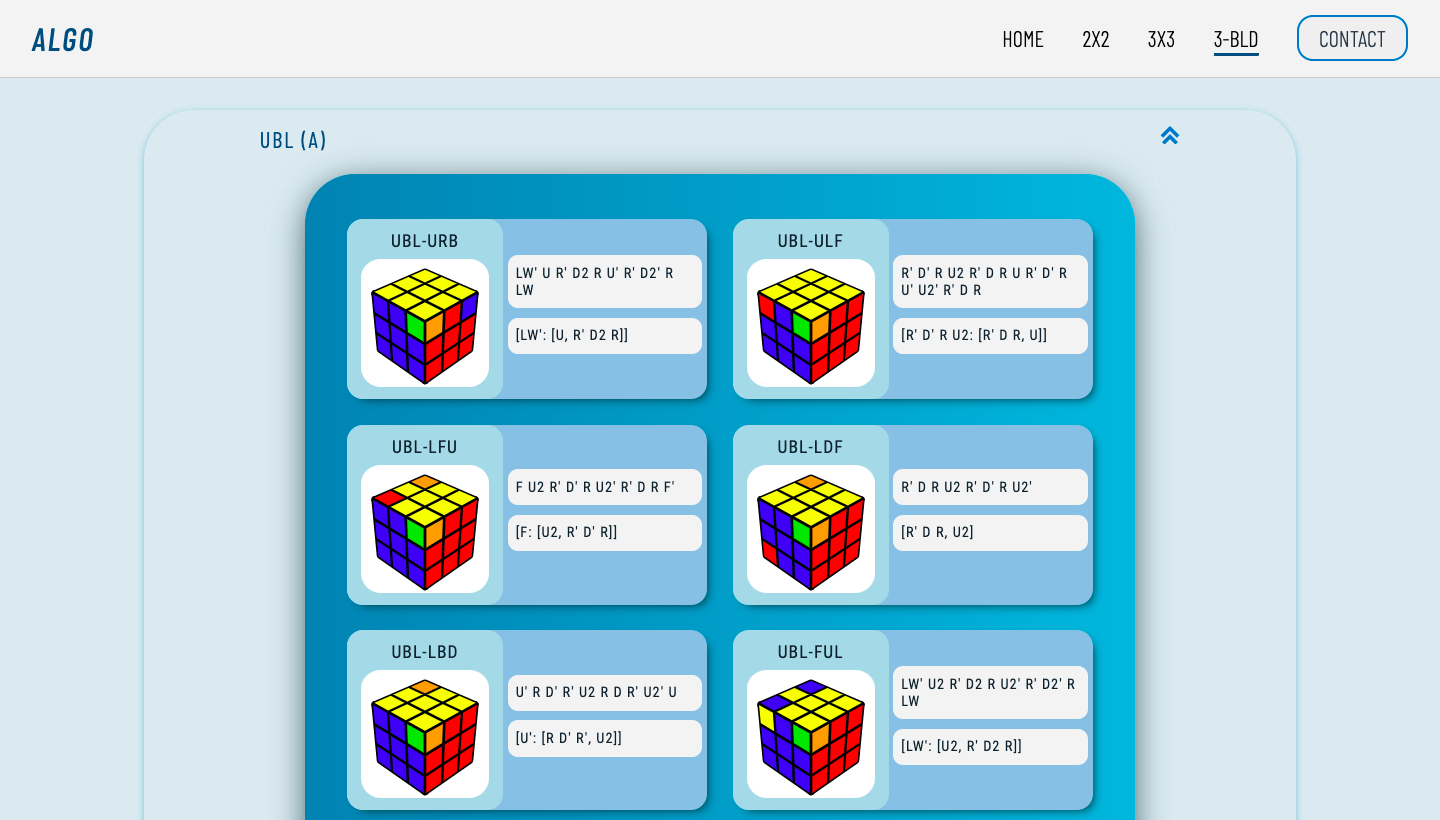
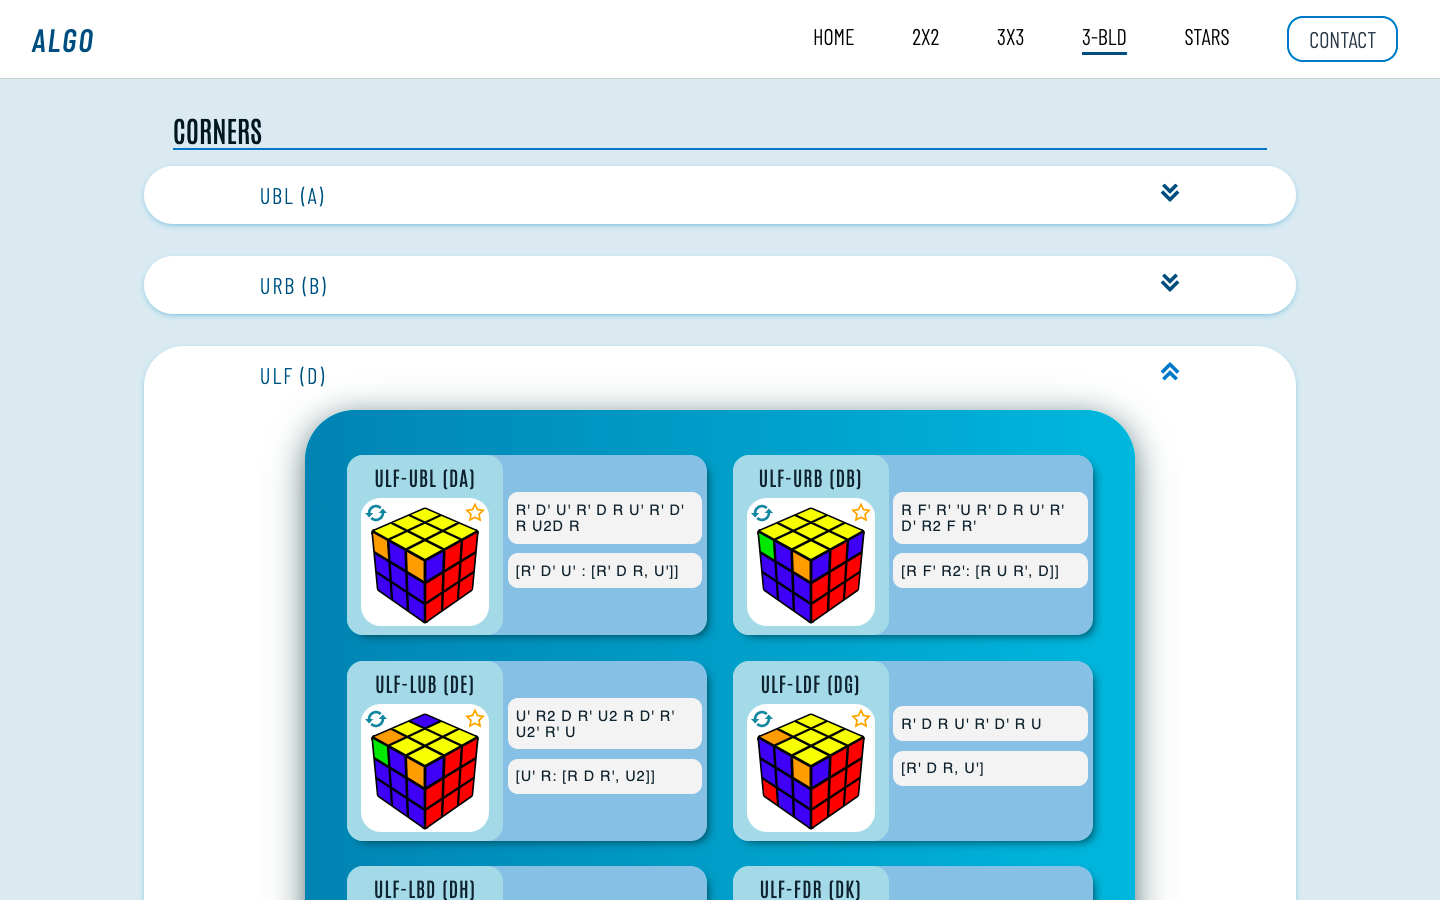
Updated Documentation

diff --git a/README.md b/README.md
@@ -1,5 +1,6 @@
 # Algo-Learn
-A Cubing Website for Learning Algorithms Using a Cubing API, Written in React and Sass
+A Cubing Website for Learning Algorithms Using a Cubing API, Written in React, Redux, and Sass
+Uses Helmet for Better SEO and LocalStorage to have Persistent Data
 
 ## Usage
 Home Page - Select Between Different Cubes and Algorithms\
@@ -8,15 +9,17 @@ Home Page - Select Between Different Cubes and Algorithms\
 Learn 2x2 Algs: CLL, EG-1, EG-2, PBL\
 ![sample-2x2-algs](./imgs/sample2x2.png)
 
-Learn 3x3 Algs: F2L, OLL, PLL, ZBLS \
+Learn 3x3 Algs: F2L, OLL, PLL \
 ![sample-3x3-algs](./imgs/sample3x3.png)
 
 Learn 3-BLD Algs: 3-Style for Corners and Edges\
 ![sample-3bld-algs](./imgs/sample3Bld.png)
 
-Contact Me Page Available to Check my Github Profile, Repo, LinkedIn, and Email Me\
-![contact-page](./imgs/contactPage.png)
+Rotate Cube to Better View the Case from a Different Angle\
+![sample-rotate-algs](./imgs/sampleSaved.png)
 
-## Future Releases
-Add Cross Algs\
-Finish 3Bld Algs
+Save Your Favorite Algorithms to Practice and Enjoy\
+![sample-saved-algs](./imgs/sampleSaved.png)
+
+Contact Me Through Linkedin, By Email, and View My Github Profile and Repo \
+![contact-page](./imgs/contactPage.png)
